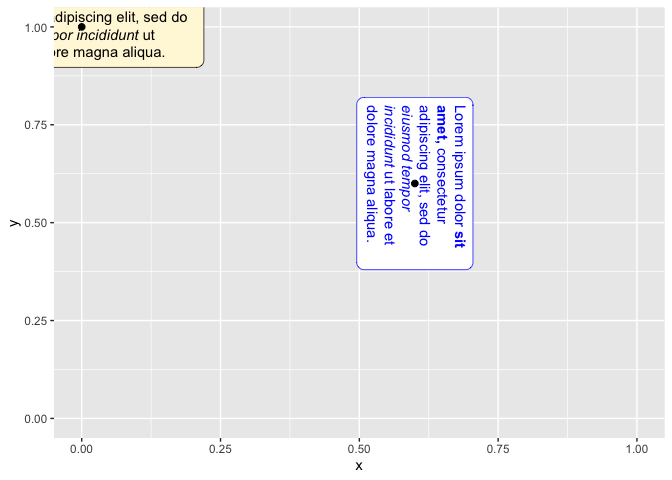
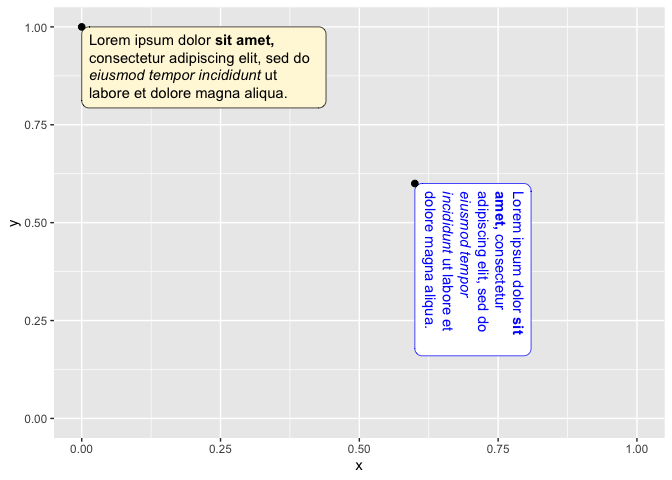
fix readme

Changed region(s): [[0.5312, 0.1875, 0.8125, 0.75], [0.0625, 0.0, 0.5, 0.25]]

diff --git a/README.md b/README.md
@@ -11,6 +11,8 @@ Status](https://travis-ci.org/clauswilke/ggtext.svg?branch=master)](https://trav
 Status](https://img.shields.io/codecov/c/github/clauswilke/ggtext/master.svg)](https://codecov.io/github/clauswilke/ggtext?branch=master)
 [![CRAN
 status](https://www.r-pkg.org/badges/version/ggtext)](https://cran.r-project.org/package=ggtext)
+[![Lifecycle:
+experimental](https://img.shields.io/badge/lifecycle-experimental-orange.svg)](https://www.tidyverse.org/lifecycle/#experimental)
 <!-- badges: end -->
 
 Improved text rendering support for ggplot2, written by Claus O. Wilke
@@ -253,7 +255,7 @@ df <- data.frame(
 ggplot(df) +
   aes(
     x, y, label = label, color = color, fill = fill,
-    box.hjust = hjust, box.vjust = vjust,
+    hjust = hjust, vjust = vjust,
     orientation = orientation
   ) +
   geom_textbox(width = unit(0.4, "npc")) +
